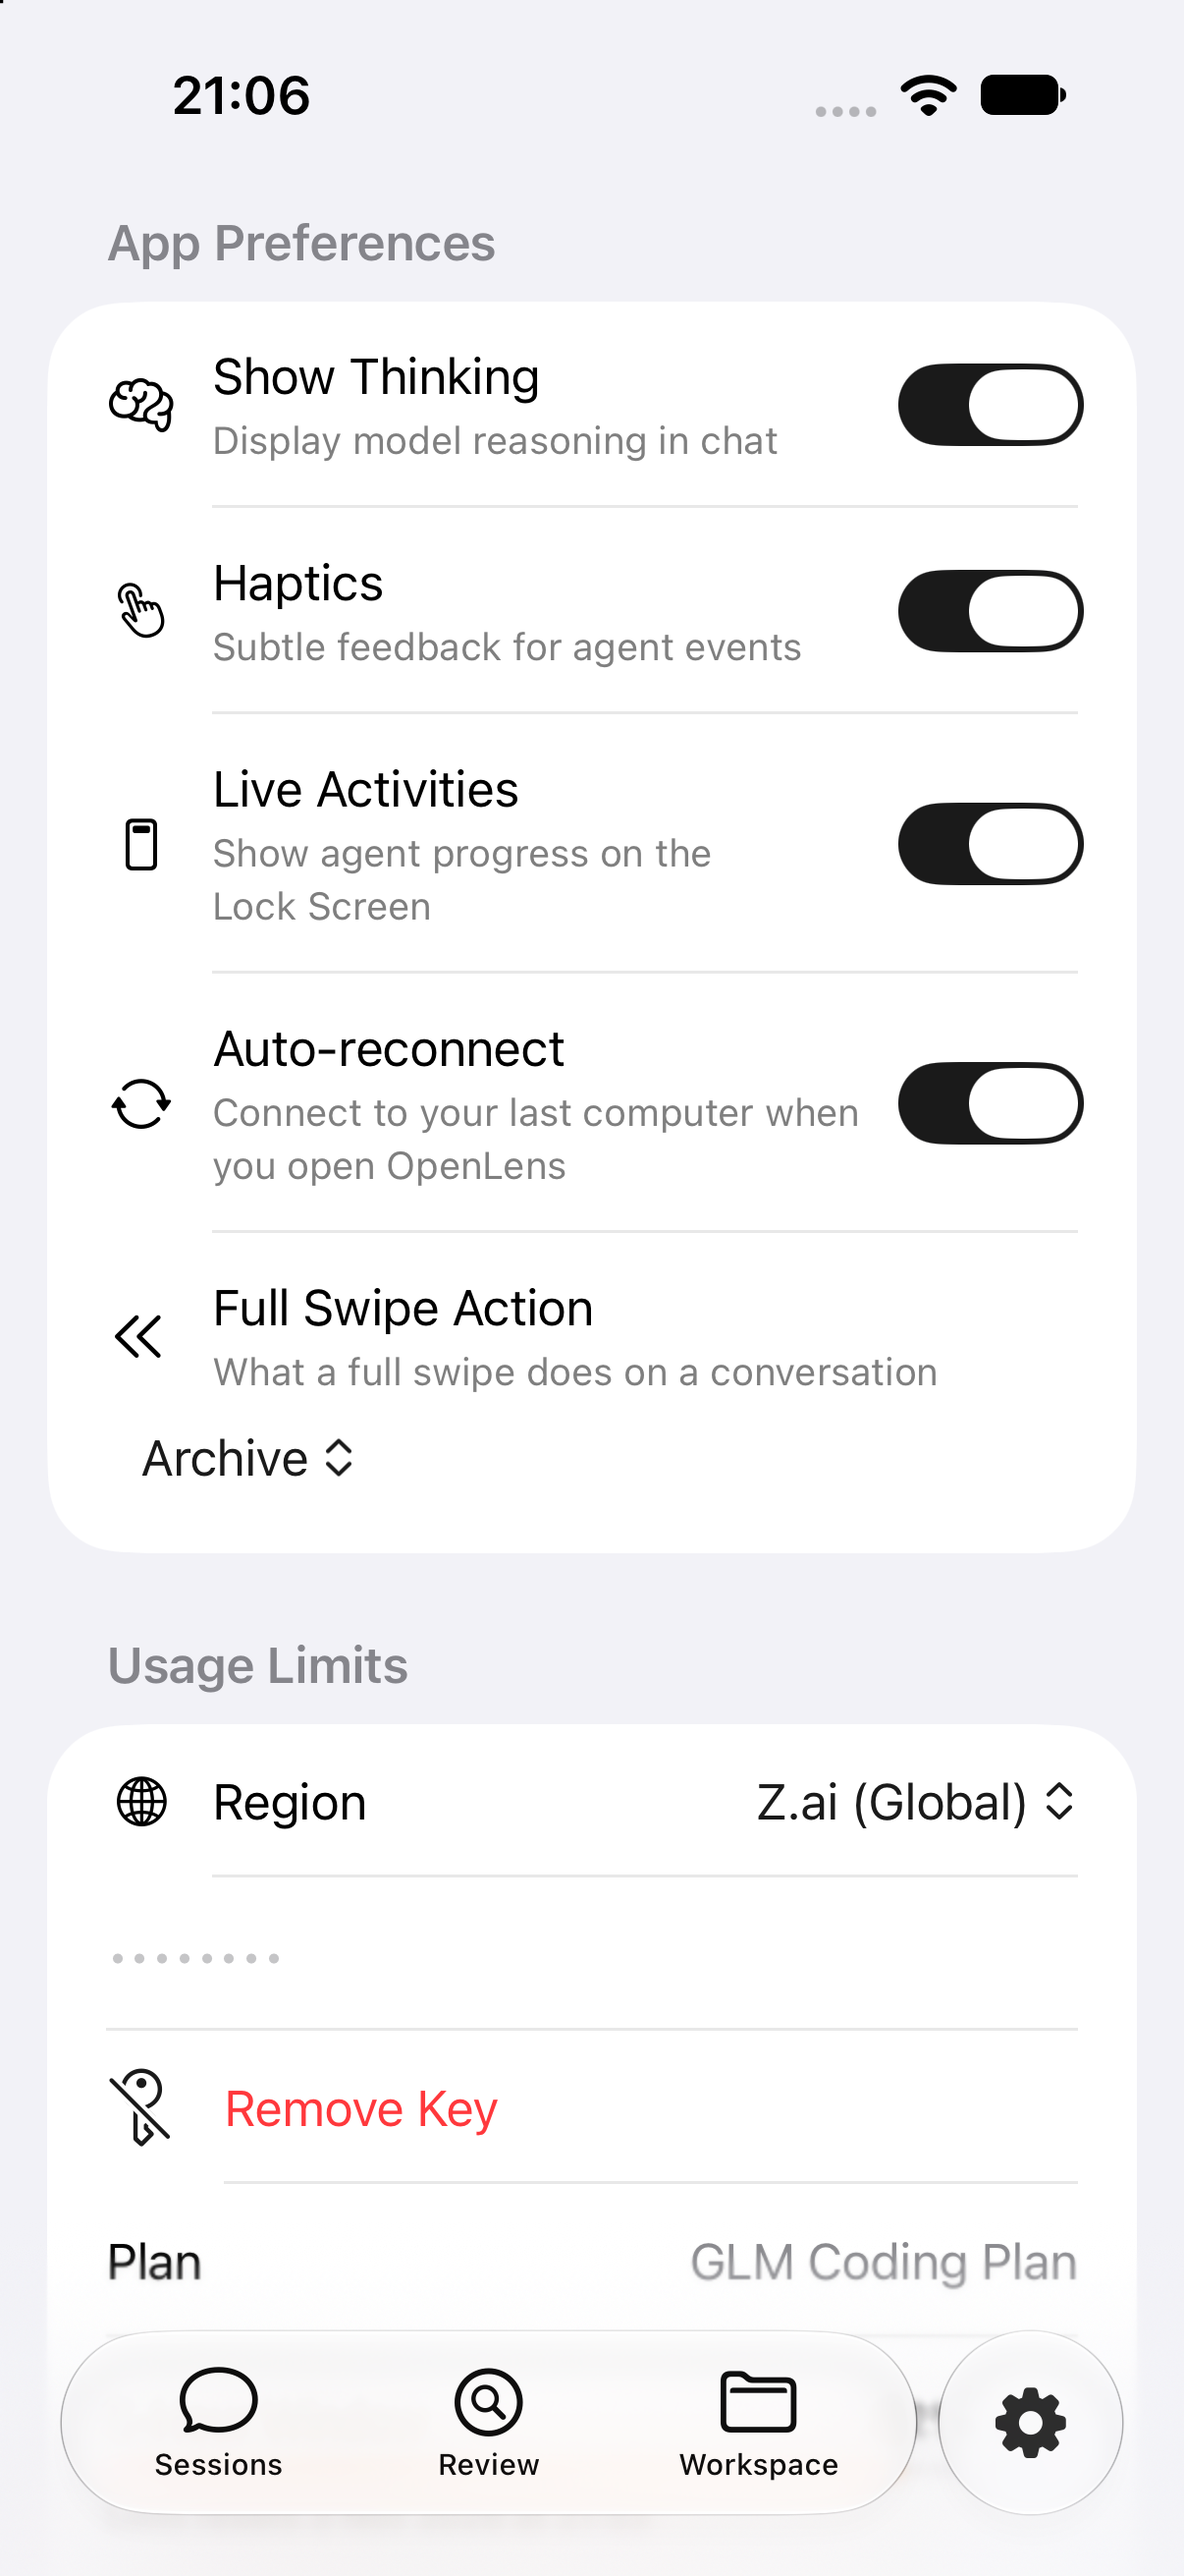
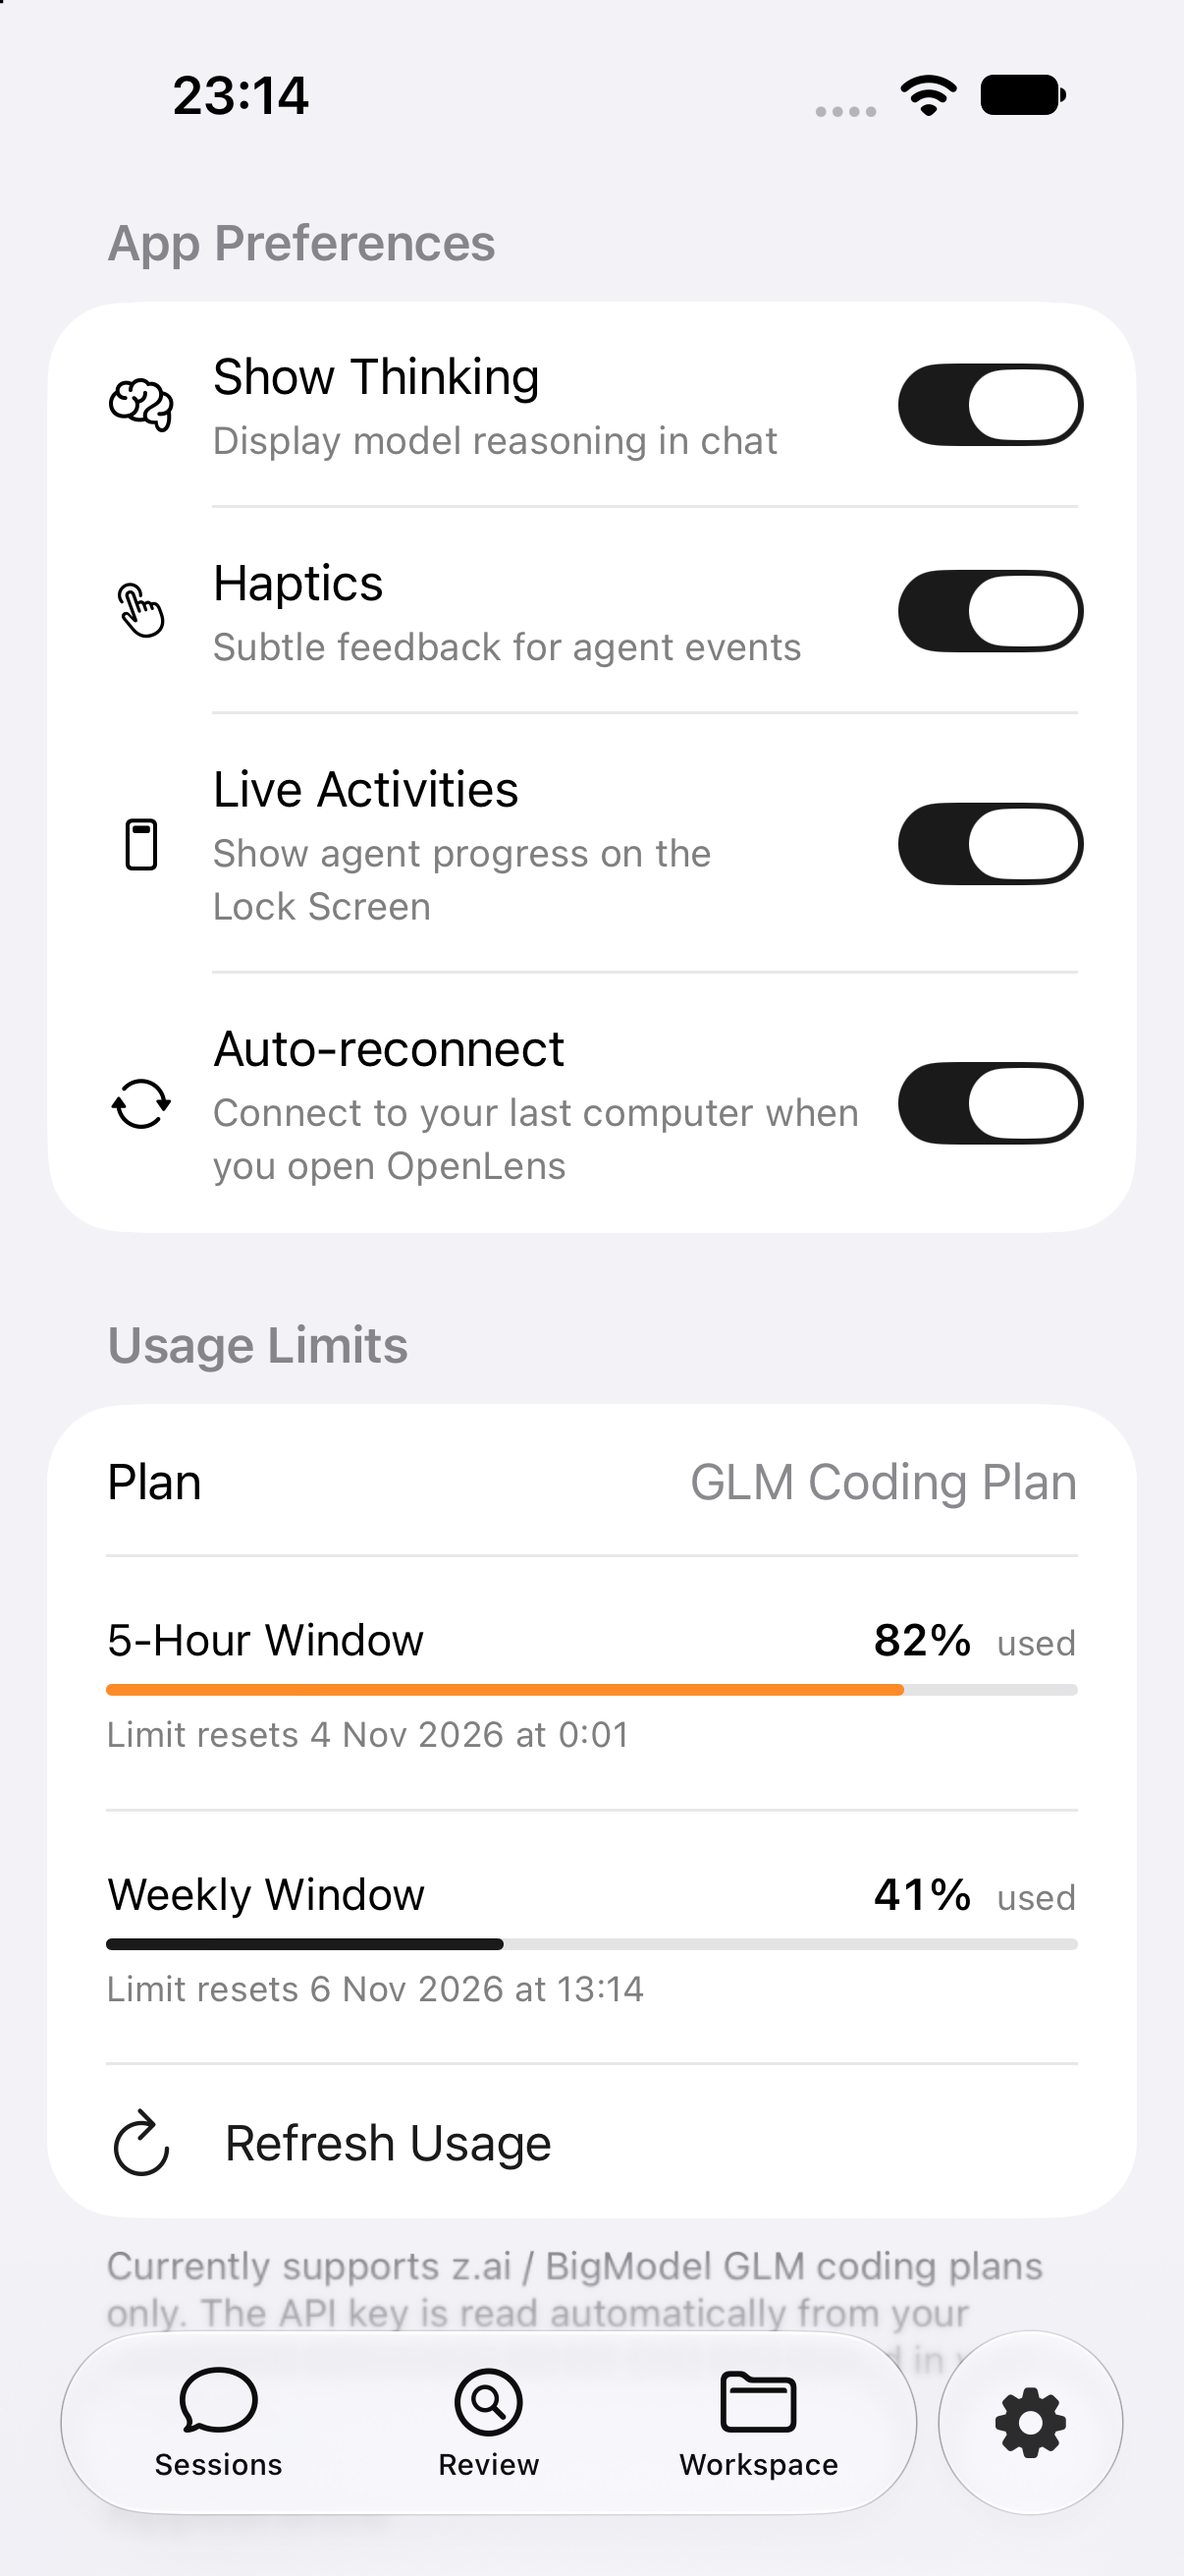
Simplify usage limits to automatic server key retrieval

diff --git a/OpenLens/Views/UsageQuotaSectionView.swift b/OpenLens/Views/UsageQuotaSectionView.swift
@@ -1,91 +1,44 @@
 import SwiftUI
 
-/// Settings section for provider coding-plan usage limits: configures the
-/// quota API key and region, then shows remaining usage per window with the
-/// reset moment as the focal point of each row.
+/// Settings section showing provider coding-plan usage limits. The z.ai key
+/// is read automatically from the connected OpenCode server (v2); there is no
+/// manual key entry. Per-window rows lead with the percentage and reset
+/// moment.
 struct UsageQuotaSectionView: View {
     @Environment(\.usageQuotaService) private var usageQuota
     @Environment(\.connection) private var connection
 
-    @State private var apiKeyDraft = ""
-    @State private var region = UsageQuotaService.storedRegion()
     @State private var isKeyConfigured = UsageQuotaService.storedAPIKey() != nil
         || ScreenshotFixtures.usageQuotaScenario != nil
     @State private var importFailureMessage: String?
+    @State private var isBootstrapping = false
+
+    private var isConnected: Bool {
+        connection.client != nil
+    }
 
     var body: some View {
         Section {
-            Picker(selection: $region) {
-                ForEach(UsageQuotaService.Region.allCases) { candidate in
-                    Text(candidate.displayName).tag(candidate)
-                }
-            } label: {
-                preferenceLabel(AppText.settingsUsageRegion, icon: "globe")
-            }
-            .onChange(of: region) { _, newValue in
-                UsageQuotaService.storeRegion(newValue)
-                Task { await usageQuota.refresh(force: true) }
-            }
+            if isKeyConfigured {
+                statusRows
 
-            SecureField(
-                AppText.settingsUsageAPIKey,
-                text: $apiKeyDraft,
-                prompt: Text(
-                    isKeyConfigured
-                        ? String(repeating: "•", count: 8)
-                        : AppText.settingsUsageAPIKeyPlaceholder
-                )
-            )
-            .onSubmit(saveAPIKey)
-
-            if !apiKeyDraft.isEmpty {
-                Button(action: saveAPIKey) {
-                    Label(AppText.saveAPIKey, systemImage: "checkmark.circle")
-                }
-                .tint(Color.appUserAccent)
-            } else if isKeyConfigured {
-                Button(role: .destructive, action: removeAPIKey) {
-                    Label(AppText.settingsUsageRemoveKey, systemImage: "key.slash")
-                }
-            }
-
-            if !isKeyConfigured {
                 Button {
-                    Task { await importKeyFromServer() }
+                    Task { await refreshNow() }
                 } label: {
-                    Label(AppText.settingsUsageImportKey, systemImage: "square.and.arrow.down.on.square")
+                    Label(AppText.settingsUsageRefresh, systemImage: "arrow.clockwise")
                 }
                 .tint(Color.appUserAccent)
-                if let importFailureMessage {
-                    Label {
-                        Text(importFailureMessage)
-                    } icon: {
-                        Image(systemName: "exclamationmark.triangle")
-                    }
-                    .font(.footnote)
-                    .foregroundStyle(.secondary)
-                }
+            } else {
+                unavailableRows
             }
-
-            statusRows
-
-            Button {
-                Task { await usageQuota.refresh(force: true) }
-            } label: {
-                Label(AppText.settingsUsageRefresh, systemImage: "arrow.clockwise")
-            }
-            .tint(Color.appUserAccent)
-            .disabled(!isKeyConfigured)
         } header: {
             Text(AppText.settingsUsageLimits)
         } footer: {
-            if !isKeyConfigured {
-                Text(AppText.settingsUsageNoKey)
-            }
+            Text(AppText.settingsUsageZaiOnlyFooter)
         }
         .task {
             guard ScreenshotFixtures.usageQuotaScenario == nil else { return }
-            await usageQuota.refresh()
+            await bootstrap()
         }
     }
 
@@ -94,9 +47,7 @@ struct UsageQuotaSectionView: View {
     @ViewBuilder
     private var statusRows: some View {
         switch usageQuota.state {
-        case .idle:
-            EmptyView()
-        case .loading:
+        case .idle, .loading:
             VStack(alignment: .leading, spacing: 8) {
                 ForEach(0..<2, id: \.self) { _ in
                     VStack(alignment: .leading, spacing: 6) {
@@ -146,16 +97,70 @@ struct UsageQuotaSectionView: View {
         }
     }
 
+    /// Why usage limits cannot be shown right now.
+    @ViewBuilder
+    private var unavailableRows: some View {
+        if isBootstrapping {
+            VStack(alignment: .leading, spacing: 6) {
+                Text(AppText.settingsUsageReadingKey)
+                    .font(.subheadline)
+                    .redacted(reason: .placeholder)
+            }
+            .padding(.vertical, 4)
+        } else if let importFailureMessage {
+            Label {
+                Text(importFailureMessage)
+            } icon: {
+                Image(systemName: "exclamationmark.triangle")
+            }
+            .font(.footnote)
+            .foregroundStyle(.secondary)
+            .padding(.vertical, 2)
+        } else if !isConnected {
+            Label {
+                Text(AppText.settingsUsageImportNoServer)
+            } icon: {
+                Image(systemName: "plug.slash")
+            }
+            .font(.footnote)
+            .foregroundStyle(.secondary)
+            .padding(.vertical, 2)
+        }
+    }
+
     // MARK: - Actions
 
+    /// Reads the z.ai key from the connected server (when needed), then
+    /// refreshes the quota snapshot. Runs automatically when the section
+    /// appears and from the Refresh button.
+    private func bootstrap() async {
+        if !isKeyConfigured, isConnected {
+            await importKeyFromServer()
+        }
+        if isKeyConfigured {
+            await usageQuota.refresh()
+        }
+    }
+
+    private func refreshNow() async {
+        if !isKeyConfigured, isConnected {
+            await importKeyFromServer()
+        }
+        if isKeyConfigured {
+            await usageQuota.refresh(force: true)
+        }
+    }
+
     /// Pulls the z.ai key from the connected OpenCode server's credential
-    /// store so the user doesn't have to paste it. v2 servers only.
+    /// store. v2 servers only.
     private func importKeyFromServer() async {
-        guard ScreenshotFixtures.usageQuotaScenario == nil else { return }
         guard let client = connection.client else {
             importFailureMessage = AppText.settingsUsageImportNoServer
             return
         }
+        isBootstrapping = true
+        defer { isBootstrapping = false }
+
         do {
             let entries = try await client.getCredentialEntries()
             guard let entry = UsageQuotaService.zaiKeyEntry(in: entries) else {
@@ -163,38 +168,12 @@ struct UsageQuotaSectionView: View {
                 return
             }
             usageQuota.importKey(from: entry)
-            region = UsageQuotaService.storedRegion()
             isKeyConfigured = true
             importFailureMessage = nil
-            await usageQuota.refresh(force: true)
         } catch OpenCodeError.invalidPayload {
             importFailureMessage = AppText.settingsUsageImportUnsupported
         } catch {
             importFailureMessage = AppText.settingsUsageImportFailed
-        }
-    }
-
-    private func saveAPIKey() {
-        let trimmed = apiKeyDraft.trimmingCharacters(in: .whitespacesAndNewlines)
-        guard !trimmed.isEmpty else { return }
-        UsageQuotaService.storeAPIKey(trimmed)
-        apiKeyDraft = ""
-        isKeyConfigured = true
-        Task { await usageQuota.refresh(force: true) }
-    }
-
-    private func removeAPIKey() {
-        UsageQuotaService.storeAPIKey("")
-        isKeyConfigured = false
-        apiKeyDraft = ""
-        usageQuota.reset()
-    }
-
-    private func preferenceLabel(_ title: String, icon: String) -> some View {
-        HStack(spacing: 12) {
-            Image(systemName: icon)
-                .frame(width: 24)
-            Text(title)
         }
     }
 }

diff --git a/OpenLens/AppText.swift b/OpenLens/AppText.swift
@@ -298,7 +298,6 @@ enum AppText {
     static let responseStopping = "Stopping..."
     static let responseTurnFailed = "The assistant response failed."
     static let retrying = "Retrying…"
-    static let saveAPIKey = "Save API Key"
     static func retryingIn(_ duration: String) -> String { "Retrying in \(duration)" }
     static func retryAttempt(_ attempt: Int) -> String { "attempt \(attempt)" }
     static let usageLimitReached = "Usage limit reached"
@@ -363,18 +362,14 @@ enum AppText {
     static let settingsLiveActivitiesSubtitle = "Show agent progress on the Lock Screen"
     static let settingsUsageLimits = "Usage Limits"
     static let settingsUsageLimitsSubtitle = "Track remaining provider coding-plan usage"
-    static let settingsUsageAPIKey = "API Key"
-    static let settingsUsageAPIKeyPlaceholder = "Provider API key"
-    static let settingsUsageRegion = "Region"
     static let settingsUsagePlan = "Plan"
-    static let settingsUsageRemoveKey = "Remove Key"
-    static let settingsUsageImportKey = "Import Key from Server"
+    static let settingsUsageReadingKey = "Reading key from server"
+    static let settingsUsageZaiOnlyFooter = "Currently supports z.ai / BigModel GLM coding plans only. The API key is read automatically from your connected OpenCode server (v2) and stored in your Keychain."
     static let settingsUsageImportNoServer = "Connect to your OpenCode server first."
     static let settingsUsageImportNotFound = "No z.ai / BigModel API key found in the server's stored credentials."
     static let settingsUsageImportUnsupported = "Stored credentials need a V2 OpenCode server."
     static let settingsUsageImportFailed = "Couldn't read credentials from the server."
     static let settingsUsageRefresh = "Refresh Usage"
-    static let settingsUsageNoKey = "Add a provider API key to show remaining plan usage. It is stored in your Keychain and sent only to the provider."
     static let settingsUsageKeyRejected = "This API key can't read usage limits. It is invalid or lacks the required grants — check the key's permissions in your provider console."
     static let settingsUsageNoLimits = "The key is valid, but it reports no usage limits. The account may have no coding plan, or the key lacks usage grants."
     static let settingsUsageFailed = "Couldn't load usage limits."

diff --git a/OpenLens/Services/UsageQuotaService.swift b/OpenLens/Services/UsageQuotaService.swift
@@ -27,13 +27,6 @@ final class UsageQuotaService {
             case .zaiChina: "https://open.bigmodel.cn"
             }
         }
-
-        var displayName: String {
-            switch self {
-            case .zaiGlobal: "Z.ai (Global)"
-            case .zaiChina: "BigModel (China)"
-            }
-        }
     }
 
     enum State: Equatable {
@@ -173,12 +166,6 @@ final class UsageQuotaService {
     /// True when an API key is configured, regardless of the last result.
     var isConfigured: Bool {
         !(Self.storedAPIKey() ?? "").isEmpty
-    }
-
-    /// Clears cached state after the stored key changes or is removed.
-    func reset() {
-        lastLoadedAt = nil
-        state = .idle
     }
 
     /// Installs a screenshot-fixture state, bypassing the network.
